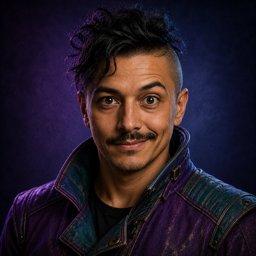
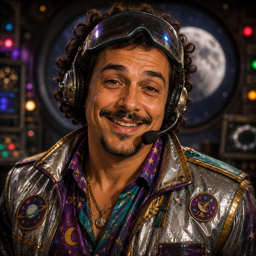
Add lunar orbit bonus assets

diff --git a/src/app/AppSections.tsx b/src/app/AppSections.tsx
@@ -58,6 +58,11 @@ import casinoMeMaiorBackgroundAsset from "../assets/venues/casino-me-maior/backg
 import casinoMeMaiorHostAsset from "../assets/venues/casino-me-maior/host-casino-me-maior.png"
 import casinoMeMaiorMatchResultLossAsset from "../assets/venues/casino-me-maior/match-result-loss.png"
 import casinoMeMaiorMatchResultWinAsset from "../assets/venues/casino-me-maior/match-result-win.png"
+import orbitaDaLuaCampaignJourneyAsset from "../assets/campaign/circuito-intergalactico-orbita-da-lua.png"
+import orbitaDaLuaBackgroundAsset from "../assets/venues/orbita-da-lua/background.png"
+import orbitaDaLuaHostAsset from "../assets/venues/orbita-da-lua/host-orbita-da-lua.png"
+import orbitaDaLuaMatchResultLossAsset from "../assets/venues/orbita-da-lua/match-result-loss.png"
+import orbitaDaLuaMatchResultWinAsset from "../assets/venues/orbita-da-lua/match-result-win.png"
 import zonaSulSalaoCampaignJourneyAsset from "../assets/campaign/conquista-zonas-salao-da-sul.png"
 import zonaSulSalaoBackgroundAsset from "../assets/venues/zona-sul-salao/background.png"
 import zonaSulSalaoHostAsset from "../assets/venues/zona-sul-salao/host-zona-sul-salao.png"
@@ -67,6 +72,7 @@ import victoryStageCampeonatoVilaNanaAsset from "../assets/campaign-victories/st
 import victoryStageCampeonatoEstadualAsset from "../assets/campaign-victories/stage-campeonato-estadual.png"
 import victoryStageCampeonatoNacionalAsset from "../assets/campaign-victories/stage-campeonato-nacional.png"
 import victoryStageCircuitoPanamericanoAsset from "../assets/campaign-victories/stage-circuito-panamericano.png"
+import victoryStageIntergalacticoAsset from "../assets/campaign-victories/stage-intergalactico.png"
 import victoryStageJogosMundiaisAsset from "../assets/campaign-victories/stage-jogos-mundiais.png"
 import victoryStageMundialAsset from "../assets/campaign-victories/stage-mundial.png"
 import victoryStageRuaPeriferiaAsset from "../assets/campaign-victories/stage-rua-periferia.png"
@@ -358,6 +364,20 @@ const VENUE_COVER_CONFIG_BY_ID: Record<string, VenueCoverConfig> = {
     dividerAsset: zeCatingaDividerAsset,
     statsPlaqueAsset: zeCatingaStatsPlaqueAsset,
   },
+  "orbita-da-lua": {
+    hostName: "Cosme Órbita",
+    hostRole: "Operador da Transmissão Orbital",
+    hostQuote: "Sem gravidade, mas com malícia.",
+    leadText: "Bônus final. Truco em órbita, resenha lunar e blefe transmitido ao vivo.",
+    description: "Na Órbita da Lua, o mundo ficou pequeno e a mesa resolveu desafiar o espaço.",
+    backgroundAsset: orbitaDaLuaBackgroundAsset,
+    hostPortraitAsset: orbitaDaLuaHostAsset,
+    quoteBoardAsset: zeCatingaQuoteBoardAsset,
+    ctaPlaqueAsset: zeCatingaCtaPlaqueAsset,
+    difficultyBottleAsset: zeCatingaDifficultyBottleAsset,
+    dividerAsset: zeCatingaDividerAsset,
+    statsPlaqueAsset: zeCatingaStatsPlaqueAsset,
+  },
 }
 
 const MATCH_RESULT_ASSET_BY_VENUE_ID: Record<string, { loss?: string; win?: string }> = {
@@ -417,6 +437,10 @@ const MATCH_RESULT_ASSET_BY_VENUE_ID: Record<string, { loss?: string; win?: stri
     loss: casinoMeMaiorMatchResultLossAsset,
     win: casinoMeMaiorMatchResultWinAsset,
   },
+  "orbita-da-lua": {
+    loss: orbitaDaLuaMatchResultLossAsset,
+    win: orbitaDaLuaMatchResultWinAsset,
+  },
 }
 
 const CAMPAIGN_VICTORY_ASSET_BY_VENUE_ID: Record<string, string> = {
@@ -445,6 +469,7 @@ const CAMPAIGN_VICTORY_ASSET_BY_STAGE_ID: Record<string, string> = {
   "circuito-panamericano": victoryStageCircuitoPanamericanoAsset,
   "jogos-mundiais": victoryStageJogosMundiaisAsset,
   mundial: victoryStageMundialAsset,
+  intergalactico: victoryStageIntergalacticoAsset,
 }
 
 interface ControlsPanelProps {
@@ -2024,6 +2049,31 @@ const authoredCampaignScreens: Record<
       top: "88.7%",
       width: "31.8%",
       height: "8.9%",
+      borderRadius: "8px",
+    },
+  },
+  "orbita-da-lua": {
+    asset: orbitaDaLuaCampaignJourneyAsset,
+    alt: "Jornada bonus final do Circuito Intergalactico com Orbita da Lua atual",
+    backHotspot: {
+      left: "28.8%",
+      top: "88.5%",
+      width: "42.5%",
+      height: "9.6%",
+      borderRadius: "8px",
+    },
+    enterHotspot: {
+      left: "49.4%",
+      top: "68.6%",
+      width: "25.2%",
+      height: "17%",
+      borderRadius: "8px",
+    },
+    partnerHotspot: {
+      left: "25.7%",
+      top: "68.7%",
+      width: "22.5%",
+      height: "16.8%",
       borderRadius: "8px",
     },
   },

diff --git a/src/three/tableTheme.ts b/src/three/tableTheme.ts
@@ -24,6 +24,7 @@ export interface TableTheme {
     | "casino-me-maior"
     | "centro-americano-truqueiro-medelin"
     | "hotel-truco-segovia-espanha"
+    | "orbita-da-lua"
     | "wood-street"
     | "steel-patio"
   illustratedTableScale?: number
@@ -289,6 +290,22 @@ const CASINO_ME_MAIOR_THEME: TableTheme = {
   sceneVignetteStrength: 0.1,
 }
 
+const LUNAR_ORBIT_THEME: TableTheme = {
+  backgroundColor: "#07111f",
+  tableColor: "#0f766e",
+  railColor: "#3b2568",
+  badgeColor: "#be185d",
+  emptySlotColor: "#e0f2fe",
+  activeSlotColor: "#f9a8d4",
+  accentColor: "#22d3ee",
+  tableKind: "steel",
+  rustColor: "#8b5cf6",
+  illustratedTableAsset: "orbita-da-lua",
+  illustratedTableScale: 1,
+  sceneWarmGlowStrength: 0.12,
+  sceneVignetteStrength: 0.18,
+}
+
 const NEON_THEME: TableTheme = {
   backgroundColor: "#111827",
   tableColor: "#0f766e",
@@ -376,6 +393,14 @@ export function getTableTheme(visualTheme?: string): TableTheme {
 
   if (visualTheme.includes("casino-luxo")) {
     return CASINO_ME_MAIOR_THEME
+  }
+
+  if (
+    visualTheme.includes("sci-fi") ||
+    visualTheme.includes("lunar") ||
+    visualTheme.includes("intergalactico")
+  ) {
+    return LUNAR_ORBIT_THEME
   }
 
   if (visualTheme.includes("claro")) {

diff --git a/src/content/characters.ts b/src/content/characters.ts
@@ -143,11 +143,11 @@ export const TRUCO_CHARACTER_ROSTER: TrucoCharacterProfile[] = [
   },
   {
     id: "mane-banguela",
-    name: "Mane Banguela",
-    nickname: "O Bigode Nervoso",
+    name: "Mané Banguela",
+    nickname: "O Sorriso Lunar",
     personalityId: "reckless",
     role: "opponent",
-    playStyle: "Explosivo, impulsivo, sobe aposta no susto",
+    playStyle: "Espalhafatoso, provocador, sobe aposta sorrindo",
     attributes: {
       courage: 5,
       patience: 1,
@@ -155,7 +155,7 @@ export const TRUCO_CHARACTER_ROSTER: TrucoCharacterProfile[] = [
     },
     avatarAsset: maneBanguelaAsset,
     story:
-      "Reza a lenda que ele ja ficou tao bravo com um parceiro ruim que ganhou a mao so no odio. No bairro, contam que o bigode dele se move um milimetro para cima sempre que alguem esta prestes a cometer uma burrice historica.",
+      "Mané jura que blefe em gravidade baixa dura mais tempo no ar. Ri antes de pedir truco, ri quando corre e ri mais ainda quando alguem acredita que ele esta distraido.",
   },
   {
     id: "joca-busao",
@@ -639,11 +639,11 @@ export const TRUCO_CHARACTER_ROSTER: TrucoCharacterProfile[] = [
   },
   {
     id: "cosme-orbita",
-    name: "Cosme Orbita",
+    name: "Cosme Órbita",
     nickname: "O Sem Gravidade",
     personalityId: "volatile",
     role: "npc",
-    playStyle: "Imprevisivel, acelerado, joga como se a mesa flutuasse",
+    playStyle: "Imprevisivel, acelerado, comenta a propria malicia",
     attributes: {
       courage: 5,
       patience: 1,
@@ -651,7 +651,7 @@ export const TRUCO_CHARACTER_ROSTER: TrucoCharacterProfile[] = [
     },
     avatarAsset: cosmeOrbitaAsset,
     story:
-      "Cosme afirma que aprendeu truco durante uma pane de energia que durou pouco demais para ser comprovada. Desde entao, muda de ideia no meio da frase e considera isso uma qualidade estrategica.",
+      "Cosme opera a transmissao orbital e ainda arruma tempo para confundir a mesa. Muda de ideia no meio da frase, chama isso de estrategia e aumenta a aposta antes do microfone esfriar.",
   },
 ]
 

diff --git a/src/career/campaign/campaignData.ts b/src/career/campaign/campaignData.ts
@@ -345,14 +345,14 @@ export const CAMPAIGN_STAGES: CampaignStage[] = [
         name: "Órbita da Lua",
         districtLabel: "Setor Lunar",
         visualTheme: "sci-fi-lunar",
-        atmosphere: "Mesa holográfica, neon e rivais caricatos de outro nível.",
+        atmosphere: "Clube orbital improvisado, neon, bandeirolas e truco transmitido ao vivo.",
         matchesToClear: 7,
         variant: "MINEIRO",
         difficulty: { aiLevel: 5, aggression: 5, trucoDiscipline: 5 },
         opponentCharacterIds: ["mane-banguela", "cosme-orbita"],
         partnerUnlockCharacterIds: ["mane-banguela", "cosme-orbita"],
-        minimumVisualState: "Fallback visual sci-fi reservado para o pós-campanha.",
-        entryNarrative: "Agora vale espetáculo. O mundo já ficou pequeno.",
+        minimumVisualState: "Campanha, capa, background, resultado e vitoria de circuito autorais.",
+        entryNarrative: "Agora vale espetáculo. O mundo ficou pequeno e a mesa subiu para a Lua.",
         reward: { coins: 1000 },
       },
     ],

diff --git a/src/three/GameTableScene.tsx b/src/three/GameTableScene.tsx
@@ -13,6 +13,7 @@ import tableTopGaragemNorteUrl from "../assets/boteco/table-top-garagem-norte.pn
 import tableTopGinasioEstadualManecoFileUrl from "../assets/boteco/table-top-ginasio-estadual-maneco-file.png"
 import tableTopHotelTrucoSegoviaEspanhaUrl from "../assets/boteco/table-top-hotel-truco-segovia-espanha.png"
 import tableTopManecoWoodUrl from "../assets/boteco/table-top-maneco-wood.png"
+import tableTopOrbitaDaLuaUrl from "../assets/boteco/table-top-orbita-da-lua.png"
 import tableTopQuintalDaLesteUrl from "../assets/boteco/table-top-quintal-da-leste.png"
 import tableTopSalaoDaSulUrl from "../assets/boteco/table-top-salao-da-sul.png"
 import tableTopSteelPatioUrl from "../assets/boteco/table-top-steel-patio.png"
@@ -32,6 +33,7 @@ const ILLUSTRATED_TABLE_ASSET_URLS: Record<string, string> = {
   "casino-me-maior": tableTopCasinoMeMaiorUrl,
   "centro-americano-truqueiro-medelin": tableTopCentroAmericanoTruqueiroMedelinUrl,
   "hotel-truco-segovia-espanha": tableTopHotelTrucoSegoviaEspanhaUrl,
+  "orbita-da-lua": tableTopOrbitaDaLuaUrl,
   "garagem-norte": tableTopGaragemNorteUrl,
   "quintal-da-leste": tableTopQuintalDaLesteUrl,
   "subsolo-do-centro": tableTopSubsoloDoCentroUrl,
@@ -92,7 +94,8 @@ export function GameTableScene({
     illustratedTableAsset === "arena-nacional" ||
     illustratedTableAsset === "casino-me-maior" ||
     illustratedTableAsset === "centro-americano-truqueiro-medelin" ||
-    illustratedTableAsset === "hotel-truco-segovia-espanha"
+    illustratedTableAsset === "hotel-truco-segovia-espanha" ||
+    illustratedTableAsset === "orbita-da-lua"
   const illustratedTableUrl = illustratedTableAsset
     ? ILLUSTRATED_TABLE_ASSET_URLS[illustratedTableAsset] ?? tableTopGhibliishUrl
     : tableTopGhibliishUrl

diff --git a/src/App.tsx b/src/App.tsx
@@ -12,6 +12,7 @@ import arenaNacionalSceneBgAsset from "./assets/venues/arena-nacional/background
 import centroAmericanoTruqueiroMedelinSceneBgAsset from "./assets/venues/centro-americano-truqueiro-medelin/background.png"
 import hotelTrucoSegoviaEspanhaSceneBgAsset from "./assets/venues/hotel-truco-segovia-espanha/background.png"
 import casinoMeMaiorSceneBgAsset from "./assets/venues/casino-me-maior/background.png"
+import orbitaDaLuaSceneBgAsset from "./assets/venues/orbita-da-lua/background.png"
 import zonaSulSalaoSceneBgAsset from "./assets/venues/zona-sul-salao/background.png"
 import manecoBanguelaSceneBgAsset from "./assets/venues/maneco-banguela/background.png"
 import tremDoJacaSceneBgAsset from "./assets/venues/trem-do-jaca/background.png"
@@ -32,6 +33,7 @@ const GAMEPLAY_BACKGROUND_ASSET_BY_VENUE_ID: Record<string, string> = {
   "centro-americano-truqueiro-medelin": centroAmericanoTruqueiroMedelinSceneBgAsset,
   "hotel-truco-segovia-espanha": hotelTrucoSegoviaEspanhaSceneBgAsset,
   "casino-me-maior": casinoMeMaiorSceneBgAsset,
+  "orbita-da-lua": orbitaDaLuaSceneBgAsset,
 }
 
 const TableSection = lazy(async () => {

diff --git a/src/app/useGameSession.ts b/src/app/useGameSession.ts
@@ -126,6 +126,7 @@ const DEFINITIVE_VICTORY_STAGE_IDS = new Set([
   "circuito-panamericano",
   "jogos-mundiais",
   "mundial",
+  "intergalactico",
 ])
 
 function buildCampaignVictoryScreens(